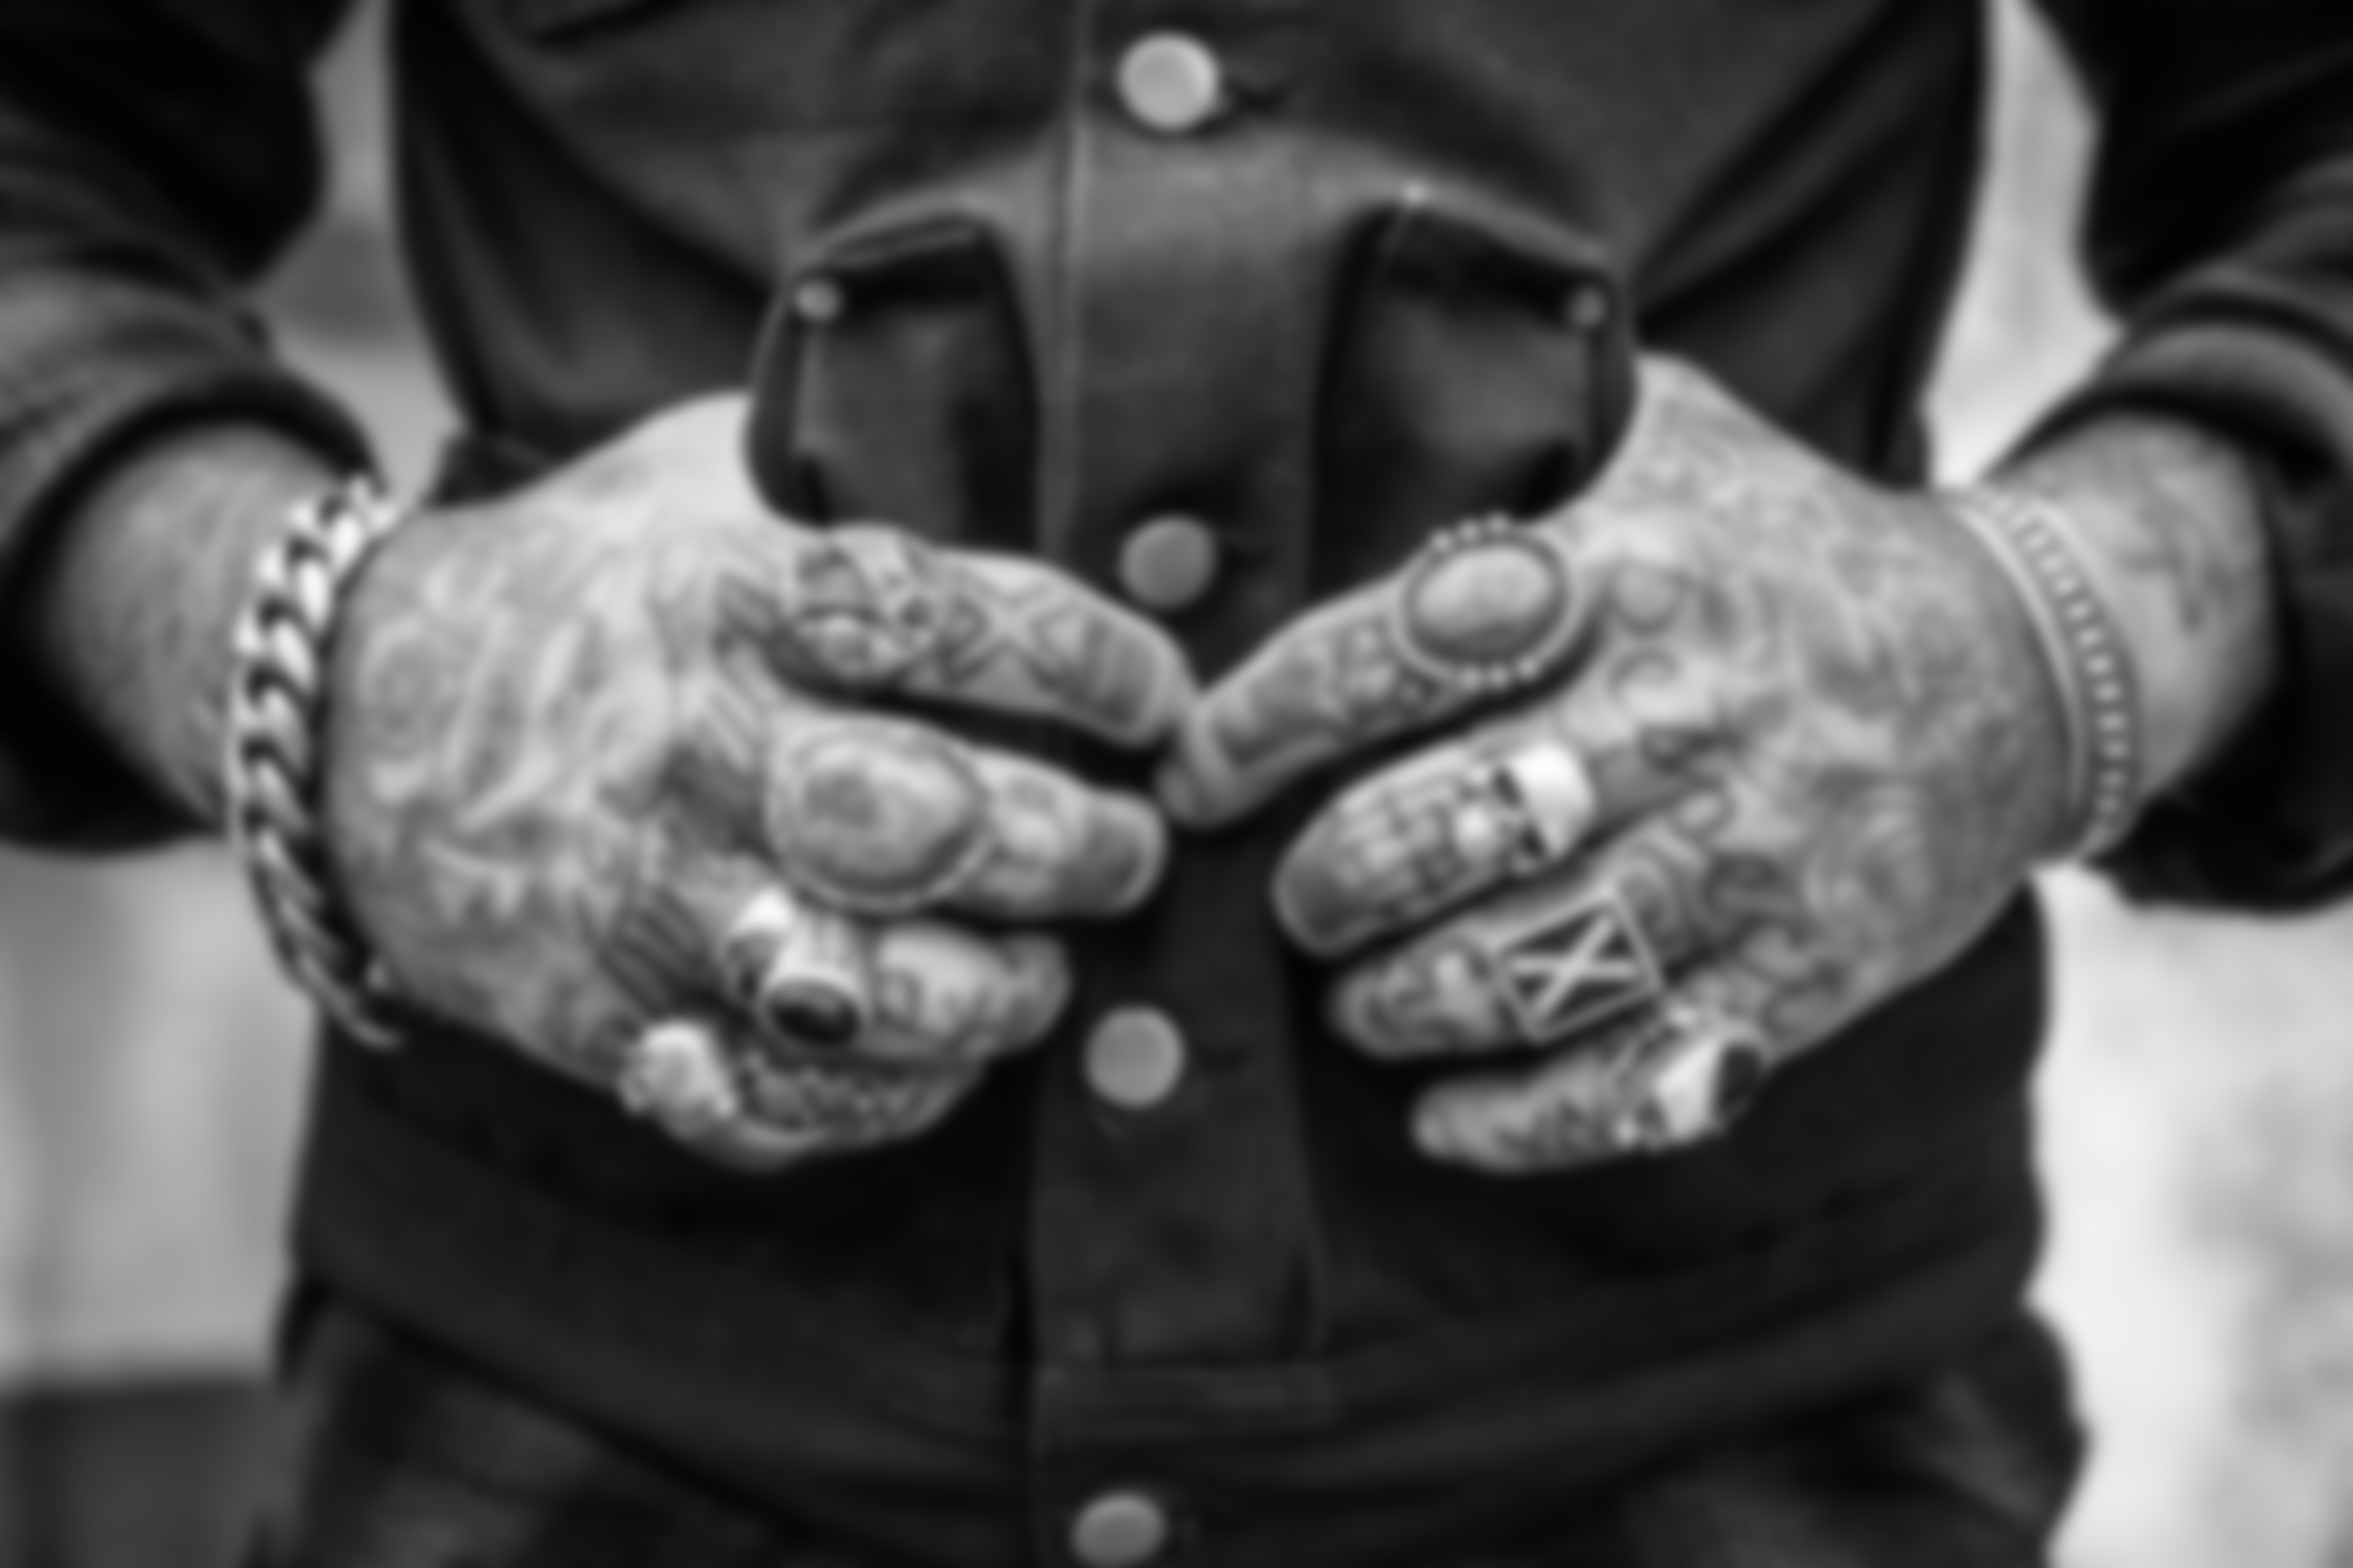
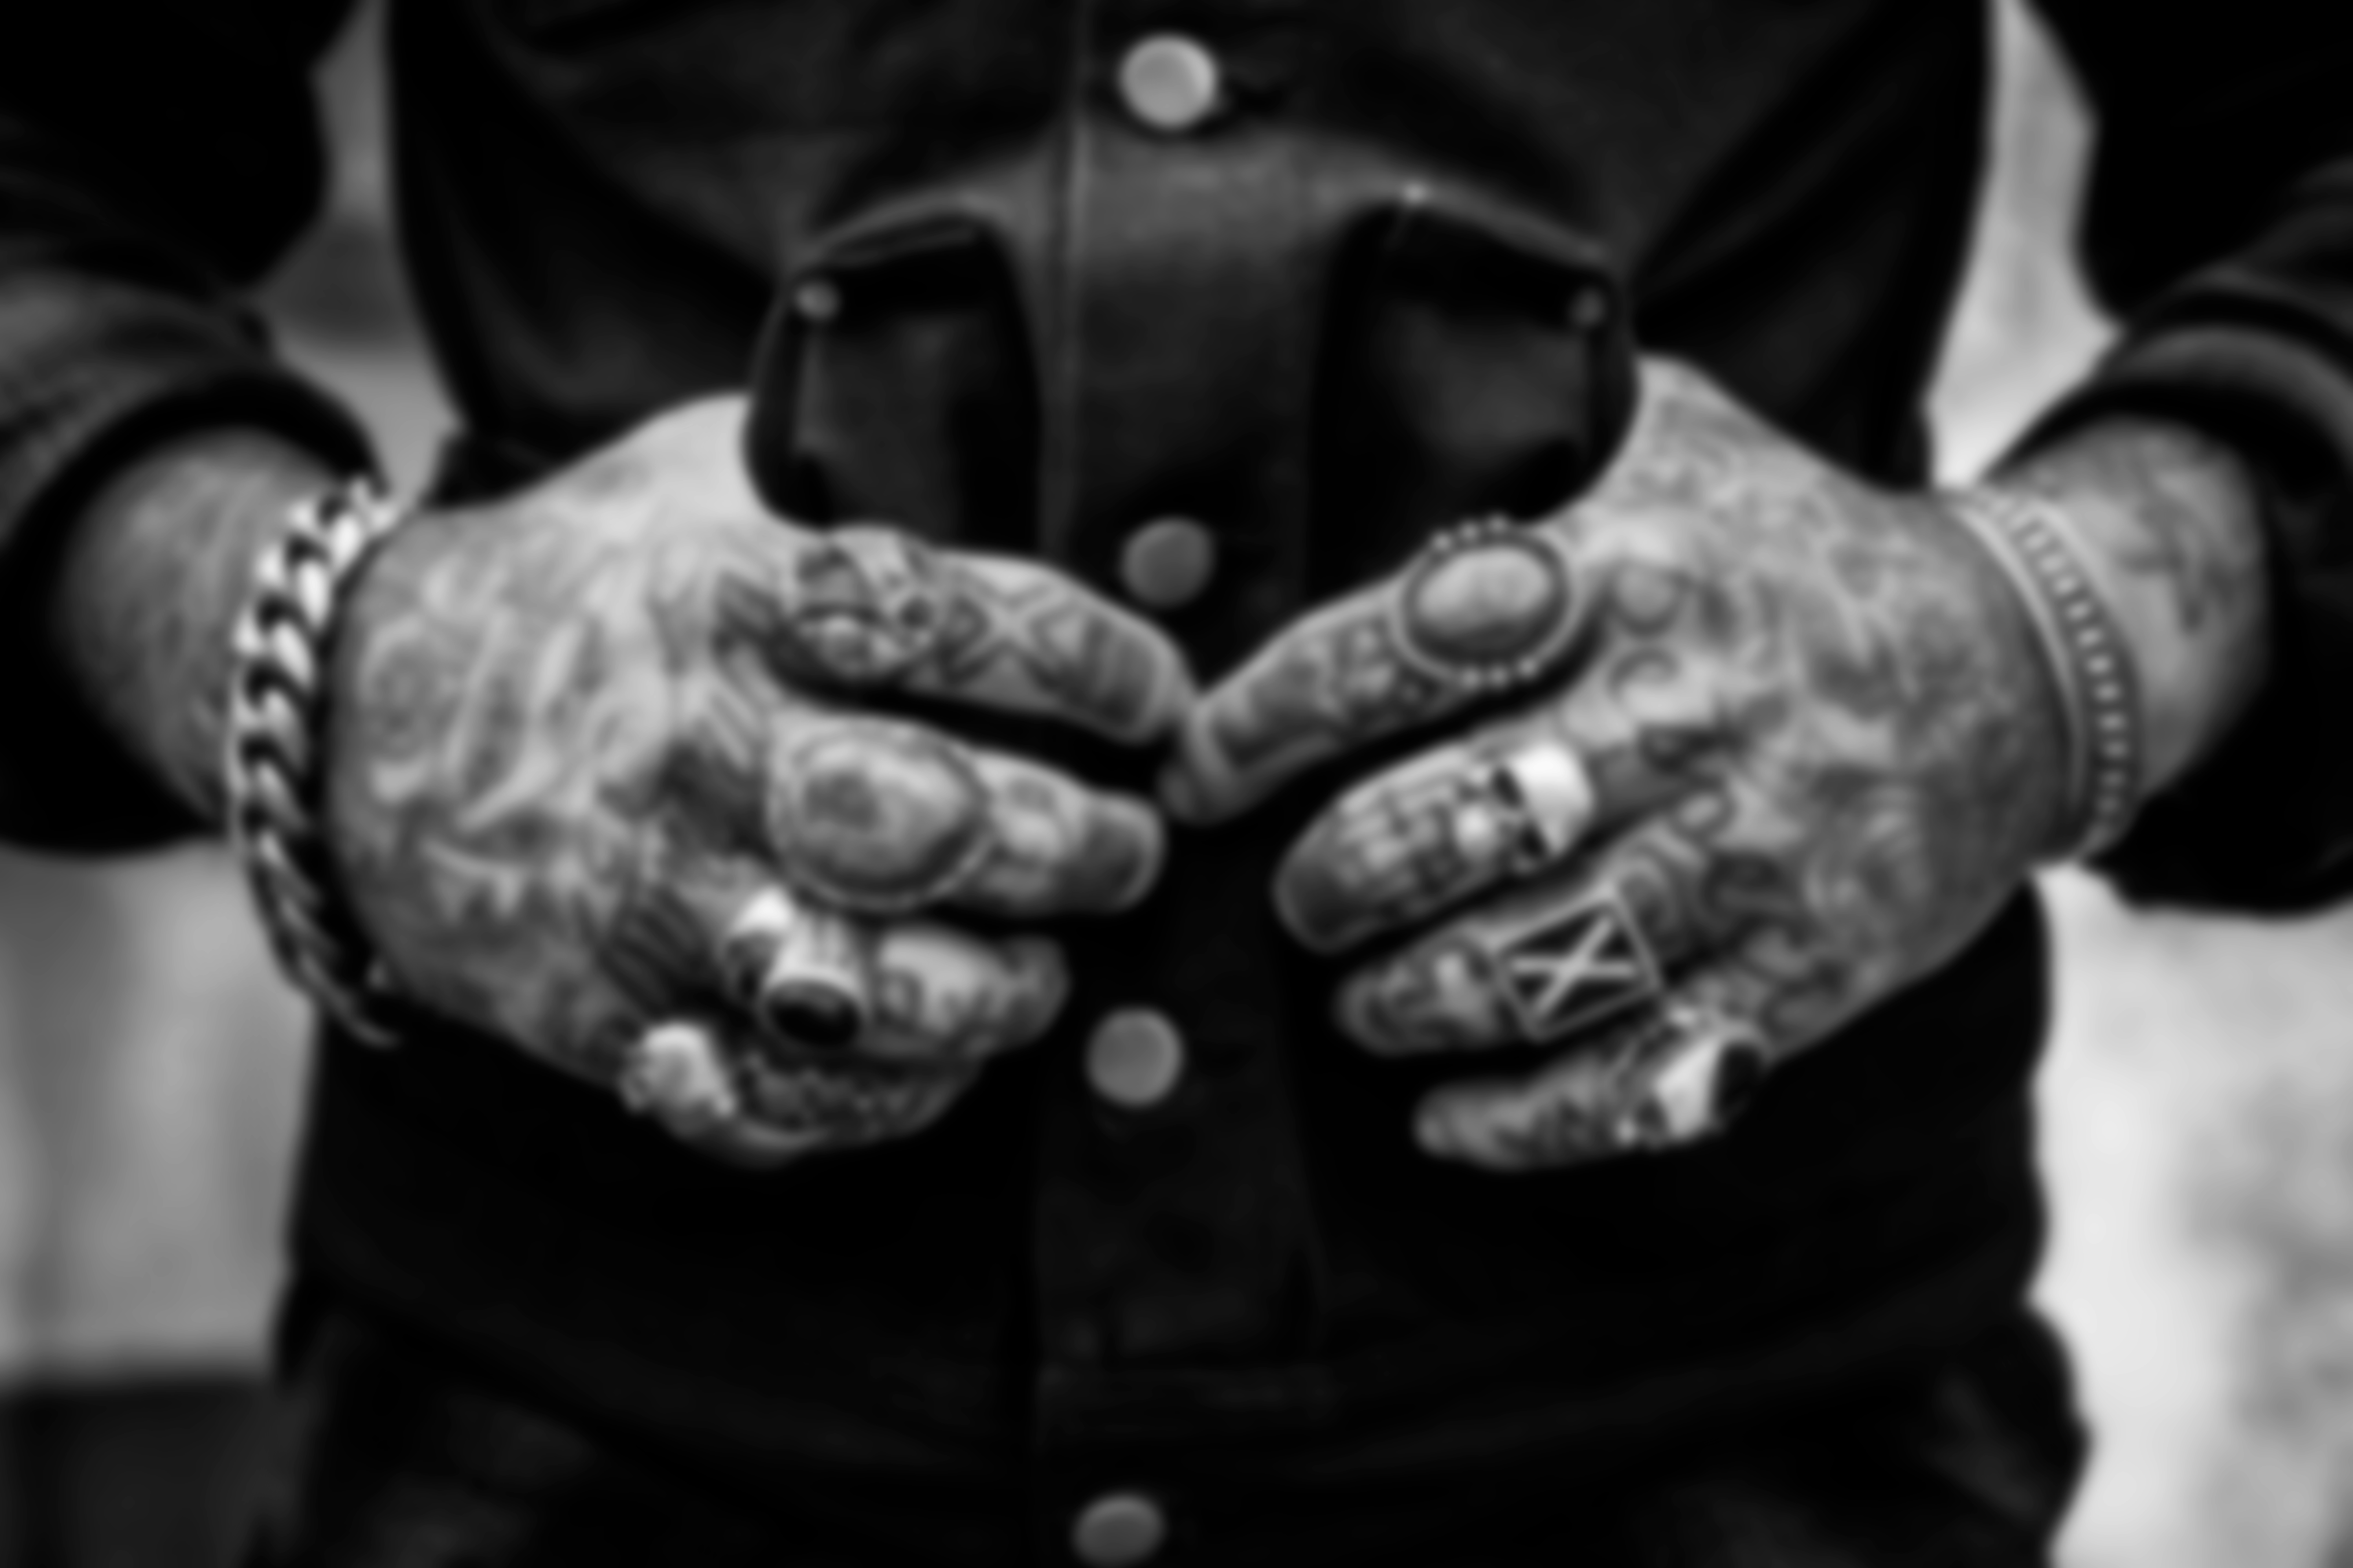
atualizando imagens de fundo

diff --git a/Archi HTML (light)/css/bg.css b/Archi HTML (light)/css/bg.css
@@ -60,7 +60,7 @@ background:url(../images/background/bg-subheader.jpg)top fixed;
 #section-welcome-11{background:url(../images/background/bg-25.jpg) top fixed;}
 #section-welcome-12{background:url(../images/background/bg-26.jpg) top fixed;}
 #section-welcome-13{background:url(../images/background/bg-27.jpg) bottom right fixed;}
-#section-why-choose-us{background:url(../images/background/tatuador.png) top fixed;}
+#section-why-choose-us{background:url(../images/background/tatuador-black.png) top fixed;}
 #section-why-choose-us-3{background:url(../images/background/bg-16.jpg) top fixed;}
 #section-portfolio{background:#222; width:101%; overflow:hidden;}
 .de_light #section-portfolio{background:#fff;}
